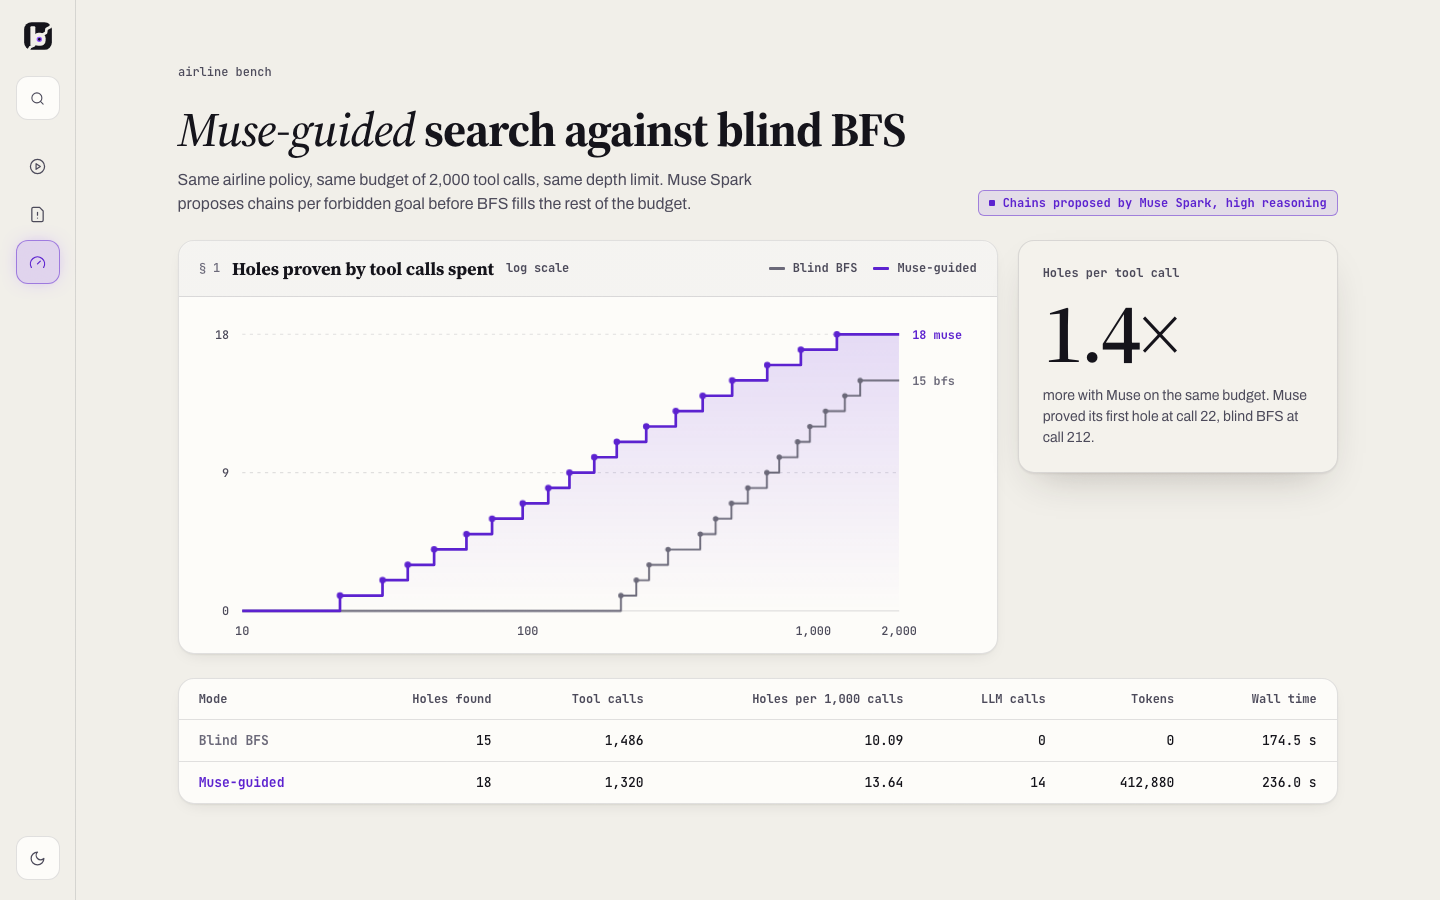
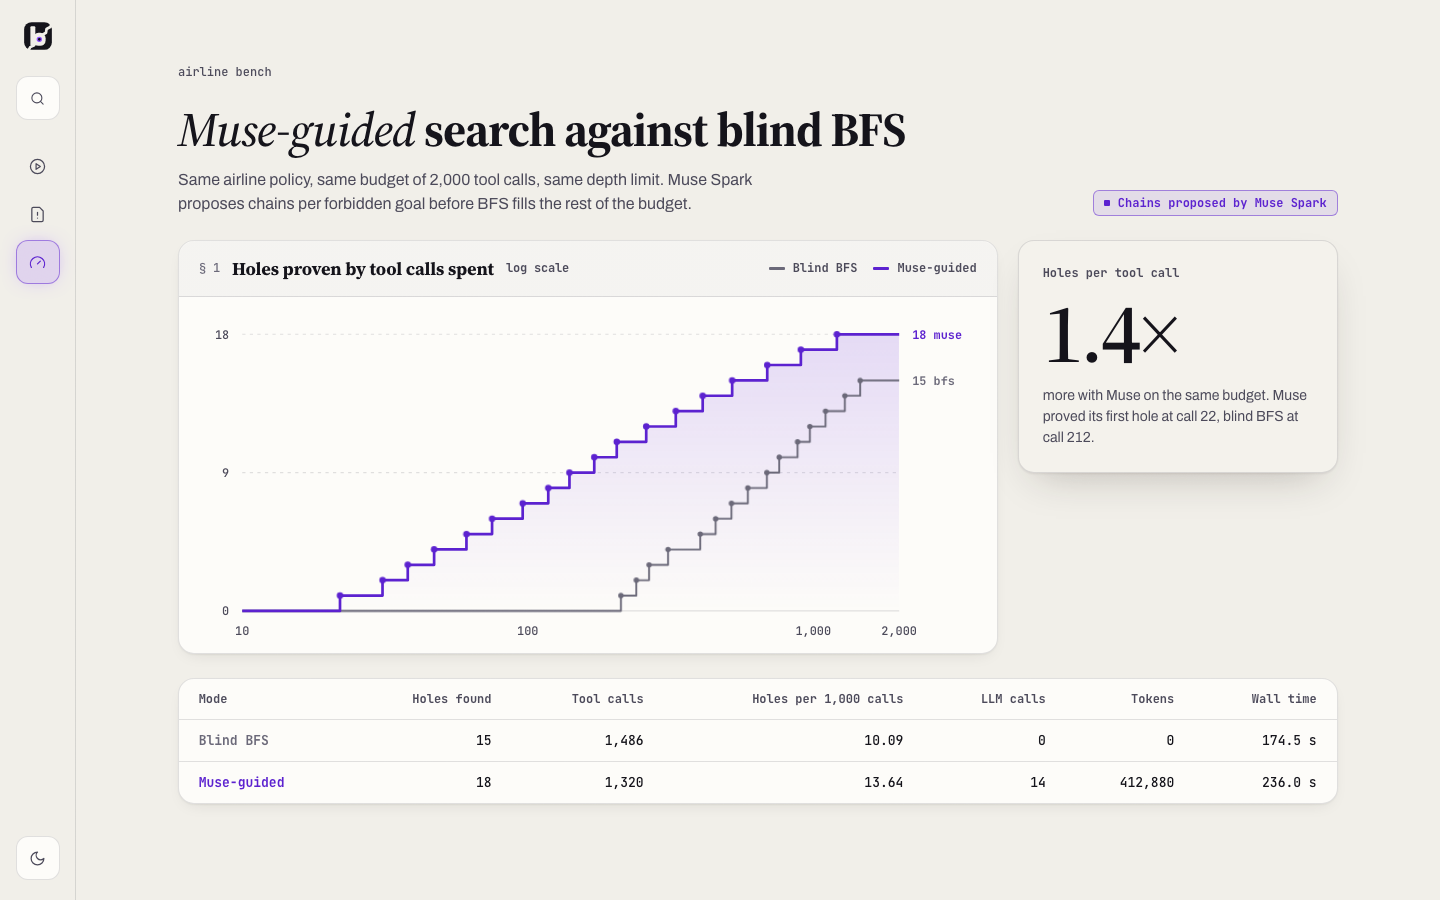
fix(web): effort and model from the API, e2e screenshots out of tracked files
Drop the fixed "high reasoning" text: the amendment shows the report's run.effort,
the bench its model, the live audit neither. Screens, sidebar and ui4 specs now write
to the gitignored .scratch/after/ folder.

Claude-Session: https://claude.ai/code/session_01KxwoBiGtcbz6n6hSA3h83F

Changed region(s): [[0.125, 0.1867, 0.5312, 0.2489], [0.6875, 0.2178, 0.9062, 0.2489]]

diff --git a/web/src/screens/Audit.tsx b/web/src/screens/Audit.tsx
@@ -19,12 +19,12 @@ const ABOUT: Record<Domain, { label: string; docket: string; desc: string; tools
 };
 
 // The phases are the articles of the run, Art. I to Art. V.
-const PHASES: { key: Phase; art: string; label: string; detail: string; effort: string }[] = [
-  { key: "compile", art: "I", label: "Compiling policy", detail: "policy text → tool rules and forbidden goals", effort: "high reasoning" },
-  { key: "search", art: "II", label: "Searching", detail: "chains of allowed write calls, depth ≤ 4", effort: "high reasoning" },
-  { key: "verify", art: "III", label: "Verifying", detail: "every hit replayed 5 times on a fresh DB", effort: "" },
-  { key: "amend", art: "IV", label: "Amending", detail: "one policy sentence and a rule patch per hole", effort: "high reasoning" },
-  { key: "backtest", art: "V", label: "Backtesting", detail: "gold tasks replayed through the patched rules", effort: "" },
+const PHASES: { key: Phase; art: string; label: string; detail: string }[] = [
+  { key: "compile", art: "I", label: "Compiling policy", detail: "policy text → tool rules and forbidden goals" },
+  { key: "search", art: "II", label: "Searching", detail: "chains of allowed write calls, depth ≤ 4" },
+  { key: "verify", art: "III", label: "Verifying", detail: "every hit replayed 5 times on a fresh DB" },
+  { key: "amend", art: "IV", label: "Amending", detail: "one policy sentence and a rule patch per hole" },
+  { key: "backtest", art: "V", label: "Backtesting", detail: "gold tasks replayed through the patched rules" },
 ];
 
 type Run = { id?: string; events: ProgressEvent[]; status: "idle" | "starting" | "running" | "done" | "error"; error?: string; useLlm: boolean };
@@ -159,7 +159,7 @@ export function Audit({ domain, onDomain, onDone }: { domain: Domain; onDomain: 
               </span>
               <span className="nm">{p.label}</span>
               <span className="dt">{p.detail}</span>
-              {p.muse && <span><Muse live={p.state === "active"}>{p.effort ? `Muse Spark, ${p.effort}` : "Muse Spark"}</Muse></span>}
+              {p.muse && <span><Muse live={p.state === "active"}>Muse Spark</Muse></span>}
               <span className="bar"><i /></span>
             </div>
           ))}

diff --git a/web/src/screens/Amendment.tsx b/web/src/screens/Amendment.tsx
@@ -3,7 +3,7 @@ import { AlertTriangle, ArrowRight, Bot, Check, FileSearch, Gavel, Loader2, Wren
 import { api, useGet, type ApiError, type Domain, type Hole, type Policy, type Ratified } from "../api";
 import { Crumbs, Failure, Loading, Muse, goldLine, holeHref, humanize, int, lineOf, quote, when } from "../ui";
 
-export function AmendmentView({ domain, hkey }: { domain: Domain; hkey: string }) {
+export function AmendmentView({ domain, hkey, effort }: { domain: Domain; hkey: string; effort?: string }) {
   const hole = useGet<Hole>(`/api/holes/${encodeURIComponent(hkey)}?domain=${domain}`);
   const ratified = useGet<Ratified>(api.ratified(domain));
   const policy = useGet<Policy>(api.policy(domain));
@@ -70,7 +70,7 @@ export function AmendmentView({ domain, hkey }: { domain: Domain; hkey: string }
               : `A sentence for the policy and the rule that enforces it, so that the trace for ${name.toLowerCase()} no longer passes. Past gold tasks were replayed to count the honest customers it would also stop.`}
           </p>
         </div>
-        <Muse>Drafted by Muse Spark, high reasoning</Muse>
+        <Muse>{effort ? `Drafted by Muse Spark, ${effort} effort` : "Drafted by Muse Spark"}</Muse>
       </div>
 
       <div className="amend">

diff --git a/web/src/main.tsx b/web/src/main.tsx
@@ -74,7 +74,7 @@ function App() {
 
   let page;
   if (inUrl && section === "report") page = <ReportView domain={domain} report={report} />;
-  else if (inUrl && section === "holes" && key && sub === "amendment") page = <AmendmentView domain={domain} hkey={key} />;
+  else if (inUrl && section === "holes" && key && sub === "amendment") page = <AmendmentView domain={domain} hkey={key} effort={report.data?.run.effort} />;
   else if (inUrl && section === "holes" && key) page = <HoleView domain={domain} hkey={key} muse={report.data?.run.mode === "muse"} />;
   else if (inUrl && section === "bench") page = <Bench domain={domain} />;
   else page = <Audit domain={domain} onDomain={setLast} onDone={report.reload} />;

diff --git a/web/src/screens/Bench.tsx b/web/src/screens/Bench.tsx
@@ -42,7 +42,7 @@ export function Bench({ domain }: { domain: Domain }) {
           <h1 className="title"><span className="v">Muse-guided</span> search against blind BFS</h1>
           <p className="lede">Same {domain} policy, same budget of {int(budget)} tool calls, same depth limit. Muse Spark proposes chains per forbidden goal before BFS fills the rest of the budget.</p>
         </div>
-        {muse && <Muse>Chains proposed by Muse Spark, high reasoning</Muse>}
+        {muse && <Muse>{bench.data.model ? `Chains proposed by Muse Spark, ${bench.data.model}` : "Chains proposed by Muse Spark"}</Muse>}
       </div>
 
       <div className="bench">

diff --git a/web/e2e/screens.spec.ts b/web/e2e/screens.spec.ts
@@ -1,10 +1,10 @@
-// REQ-UI2-3: a screenshot of each screen at 1440 and 390 width, saved to .artifacts/reports/.
+// REQ-UI2-3: a screenshot of each screen at 1440 and 390 width, saved to .scratch/after/ui2/ (gitignored).
 import { expect, test, type Page } from "@playwright/test";
 import { join } from "node:path";
 import { writeFileSync } from "node:fs";
 import { mockApi, storedReport } from "./mock";
 
-const OUT = "../.artifacts/reports/ui2";
+const OUT = "../.scratch/after/ui2/ui2";
 const mock = !!process.env.E2E_MOCK;
 
 for (const [w, h] of [[1440, 900], [390, 844]]) {

diff --git a/web/src/api.ts b/web/src/api.ts
@@ -57,6 +57,7 @@ export type Policy = { domain: Domain; lines: string[] };
 export type Bench = {
   domain: Domain;
   budget: number;
+  model?: string | null; // 01 v1.9
   rows: {
     mode: "bfs" | "muse"; holes: number; hole_keys: string[]; tool_calls: number; llm_calls: number; tokens: number; seconds: number;
     found?: { key: string; tool_calls: number; seconds: number }[]; // C5 v1.6

diff --git a/web/e2e/ui4.spec.ts b/web/e2e/ui4.spec.ts
@@ -2,7 +2,7 @@
 import { expect, test, type Page } from "@playwright/test";
 import { mockApi } from "./mock";
 
-const OUT = "../.artifacts/reports/ui4-app";
+const OUT = "../.scratch/after/ui4-redesign/ui4-app";
 test.skip(!process.env.E2E_MOCK, "the stamp and stepping checks run on the mock's stored report");
 
 const firstFinding = async (page: Page) => {

diff --git a/web/e2e/sidebar.spec.ts b/web/e2e/sidebar.spec.ts
@@ -2,7 +2,7 @@
 import { expect, test } from "@playwright/test";
 import { mockApi } from "./mock";
 
-const OUT = "../.artifacts/reports/ui3";
+const OUT = "../.scratch/after/ui3/ui3";
 test.use({ viewport: { width: 1440, height: 900 } });
 
 test("sidebar collapses and expands", async ({ page }) => {

diff --git a/.artifacts/to-test/2026-10-27-ui4-redesign.md b/.artifacts/to-test/2026-10-27-ui4-redesign.md
@@ -16,12 +16,12 @@ Approved by the user on 2026-10-27 ("approve the prototype, but first do it with
 - **States:** skeleton loading per screen shape; the error, 404 and empty states are restyled.
 - **Motion:** transform and opacity only; all of it is off under `prefers-reduced-motion`.
 - **Logo:** `web/public/logo.svg` (also the favicon) has the violet hole ring and the wider crack (10 units). It uses a dark tile in light mode. `.artifacts/pages/bylaw-pitch.html` has no logo, so it is unchanged.
-- **01 v1.9:** a `bfs-fallback` run reads as an offline run. The report shows the offline tag and an amber "Muse unavailable" notice with the failed call count, and the rail meter reads "Muse unavailable, ran offline". A null `run.model` is left out of the text; `run.effort` is shown when present.
+- **01 v1.9:** a `bfs-fallback` run reads as an offline run. The report shows the offline tag and an amber "Muse unavailable" notice with the failed call count, and the rail meter reads "Muse unavailable, ran offline". A null `run.model` is left out of the text; `run.effort` is shown when present. The fixed "high reasoning" text is gone. The amendment badge shows the loaded report's `run.effort`, and the bench badge shows the bench's `model`. Each badge leaves the claim out when the value is absent. The live audit phases say only "Muse Spark", because the run has no report yet.
 
 ## How to test
 
 - Gate: `make check`.
-- Mocked UI: `cd web && E2E_MOCK=1 npx playwright test`. That is 15 tests: the existing screens, sidebar and smoke specs, plus `e2e/ui4.spec.ts`. The new spec covers a bfs-fallback report (mock option `fallback`), the ratify stamp, ←/→ stepping, ⌘K, the theme toggle, and screenshots of both themes at 1440 and 390 with no sideways scroll.
+- Mocked UI: `cd web && E2E_MOCK=1 npx playwright test`. That is 15 tests: the existing screens, sidebar and smoke specs, plus `e2e/ui4.spec.ts`. The new spec covers a bfs-fallback report (mock option `fallback`), the ratify stamp, ←/→ stepping, ⌘K, the theme toggle, and screenshots of both themes at 1440 and 390 with no sideways scroll. The only change to the existing specs is their screenshot folder. The e2e screenshots now go to the gitignored `.scratch/after/{ui2,ui3,ui4-redesign}/`, so a test run no longer rewrites tracked PNGs. The `ui4-app-*.png` files in `.artifacts/reports/` are copies taken from that run.
 - Real API: `cd web && npx playwright test` (starts uvicorn). Not run for this change: the machine was loaded with parallel gates.
 
 Screenshots: `.artifacts/reports/ui4-app-{dark,light}-{1-audit,2-report,3-hole,4-amendment-ratified,5-bench}-{1440,390}.png` and `ui4-app-{dark,light}-6-collapsed-1440.png`.
